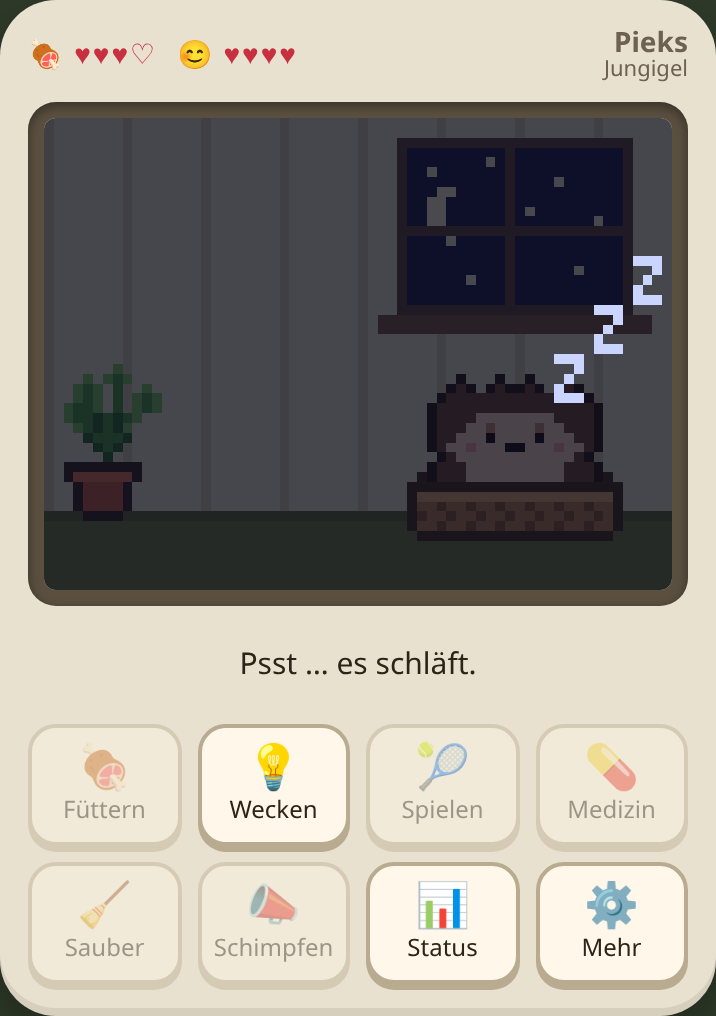
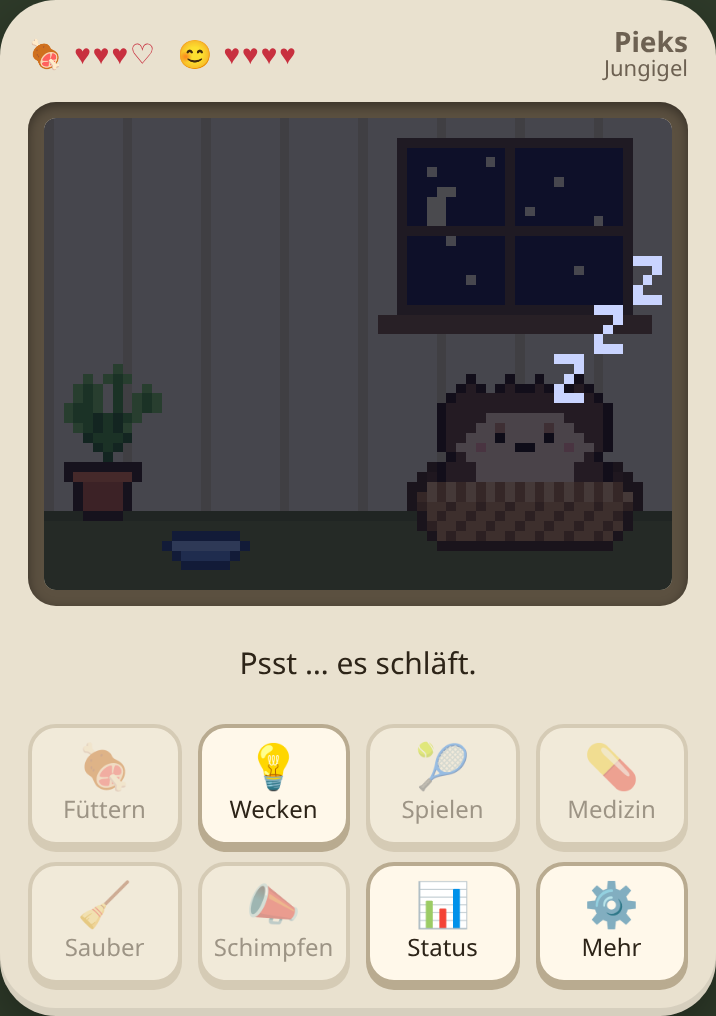
Futternapf mit Fress-Animation, Körbchen als geflochtener Weidenkorb
- Füttern: Futter erscheint im Napf, Tier läuft hin und frisst ihn leer
- Tier läuft jetzt mit eigener Position (kein Springen nach dem Fressen)
- Körbchen: geflochtener Rand, Weidenmuster, schmaler nach unten, Kissen

diff --git a/src/render/scene.ts b/src/render/scene.ts
@@ -8,24 +8,49 @@ export const SCREEN_W = 64;
 export const SCREEN_H = 48;
 const FLOOR_Y = 40;
 
-// Körbchen unter dem Fenster
+// Körbchen unter dem Fenster (geflochten, mit Kissen)
 const BASKET_X = 37;
 const BASKET_Y = FLOOR_Y - 6;
-const BASKET_CX = BASKET_X + 11;
-const BASKET_COLORS: ColorMap = { o: '#4a2f17', a: '#b5824a', c: '#8a5a2b', b: '#d9a86a', p: '#6c8fd1' };
+const BASKET_CX = BASKET_X + 12;
+const BASKET_COLORS: ColorMap = {
+  o: '#4a2f17', // Umriss
+  b: '#e0b57a', // Flechtrand hell
+  c: '#a8743e', // Flechtrand dunkel
+  a: '#c48f55', // Geflecht
+  x: '#8a5a2b', // Weidenstäbe
+  i: '#5a3a20', // Innenschatten
+  p: '#6c8fd1', // Kissen
+};
 const BASKET_BACK = [
-  '...oooooooooooooooo...',
-  '..obbbbbbbbbbbbbbbbo..',
-  '.oppppppppppppppppppo.',
+  '....oooooooooooooooo....',
+  '..oobbbbbbbbbbbbbbbboo..',
+  '.oiippppppppppppppppiio.',
 ];
 const BASKET_FRONT = [
-  'oooooooooooooooooooooo',
-  'obbbbbbbbbbbbbbbbbbbbo',
-  'oaacaacaacaacaacaacaao',
-  'ocaacaacaacaacaacaacao',
-  'oaacaacaacaacaacaacaao',
-  '.oooooooooooooooooooo.',
+  'oobcbcbcbcbcbcbcbcbcbcoo',
+  'ocbcbcbcbcbcbcbcbcbcbcbo',
+  'oxaaxaaxaaxaaxaaxaaxaaxo',
+  '.oaxaaxaaxaaxaaxaaxaaxo.',
+  '.oxaaxaaxaaxaaxaaxaaxao.',
+  '..oaxaaxaaxaaxaaxaaxao..',
+  '...oooooooooooooooooo...',
 ];
+
+// Futternapf neben der Pflanze
+const BOWL_X = 12;
+const BOWL_Y = FLOOR_Y + 2;
+const BOWL = ['.ooooooo.', 'ohhhhhhho', '.obbbbbo.', '..ooooo..'];
+const BOWL_COLORS: ColorMap = { o: '#2e4a7a', h: '#8fb3e6', b: '#5b86c9' };
+const FOOD_LEVELS = [
+  [], // leer
+  ['.......', '..fkf..'],
+  ['.......', '.fkfkf.'],
+  ['..fkf..', '.fkfkf.'],
+];
+const FOOD_COLORS: Record<'food' | 'candy', ColorMap> = {
+  food: { f: '#8a5a2b', k: '#b07a42' },
+  candy: { f: '#e46fb1', k: '#fff2f8' },
+};
 
 // Risse im Ei (relativ zum Ei), je Stufe kommen mehr dazu
 const CRACKS: [number, number][][] = [
@@ -70,7 +95,8 @@ const PLANT_POT = [
 type FxKind = 'food' | 'candy' | 'pill' | 'heart' | 'angry' | 'sparkle';
 
 const HATCH_MS = 1800;
-const EAT_MS = 1500;
+const EAT_MS = 2400; // Fressen am Napf
+const WALK_SPEED_TO_BOWL = 28; // Pixel pro Sekunde
 
 export class Scene {
   private ctx: CanvasRenderingContext2D;
@@ -80,7 +106,10 @@ export class Scene {
   private flashStart = -Infinity;
   private jumpStart = -Infinity;
   private shakeStart = -Infinity;
-  private lastX = 30;
+  private meal: { kind: 'food' | 'candy'; eatStart: number | null } | null = null;
+  private walkX = 30;
+  private walkDir = 1;
+  private lastFrame = performance.now();
 
   constructor(canvas: HTMLCanvasElement) {
     canvas.width = SCREEN_W;
@@ -90,8 +119,13 @@ export class Scene {
 
   effect(kind: FxKind) {
     const now = performance.now();
+    if (kind === 'food' || kind === 'candy') {
+      // Futter erscheint im Napf, das Tier läuft hin und frisst
+      this.meal = { kind, eatStart: null };
+      return;
+    }
     this.fx = { kind, start: now, until: now + 1500 };
-    if (kind === 'heart' || kind === 'candy' || kind === 'sparkle') this.jumpStart = now + (kind === 'candy' ? EAT_MS : 0);
+    if (kind === 'heart' || kind === 'sparkle') this.jumpStart = now;
     if (kind === 'angry') this.shakeStart = now;
   }
 
@@ -140,6 +174,9 @@ export class Scene {
       drawMap(ctx, BASKET_FRONT, BASKET_COLORS, BASKET_X, BASKET_Y + 3);
       this.drawPetWalking(p, sp, t);
     }
+
+    // Napf liegt vorne auf dem Boden, also nach dem Tier zeichnen
+    this.drawBowl(t);
 
     if (!p.lightOn) this.overlay(0.72);
 
@@ -236,7 +273,7 @@ export class Scene {
     const cleaning = t < this.cleaningUntil;
     p.poops.slice(0, 6).forEach((_, i) => {
       // zwischen Pflanze und Körbchen, 3 nebeneinander, dann eine zweite Reihe
-      const x = 13 + (i % 3) * 7 + (Math.floor(i / 3) % 2) * 3 + (cleaning ? (this.cleaningUntil - t) / 20 : 0);
+      const x = 23 + (i % 3) * 4 + (Math.floor(i / 3) % 2) * 2 + (cleaning ? (this.cleaningUntil - t) / 20 : 0);
       const y = FLOOR_Y + 1 - Math.floor(i / 3) * 2 + (i % 2);
       drawMap(ctx, ICONS.poop.map, ICONS.poop.colors, x, y);
       if (!cleaning) {
@@ -249,6 +286,17 @@ export class Scene {
         }
       }
     });
+  }
+
+  private drawBowl(t: number) {
+    const m = this.meal;
+    let level = 0;
+    if (m) {
+      const k = m.eatStart === null ? 0 : (t - m.eatStart) / EAT_MS;
+      level = 3 - Math.min(3, Math.floor(k * 3));
+    }
+    if (m && level > 0) drawMap(this.ctx, FOOD_LEVELS[level], FOOD_COLORS[m.kind], BOWL_X + 1, BOWL_Y - 2);
+    drawMap(this.ctx, BOWL, BOWL_COLORS, BOWL_X, BOWL_Y);
   }
 
   private drawEgg(s: GameState, p: Pet, sp: SpeciesDef, t: number) {
@@ -297,27 +345,46 @@ export class Scene {
 
   private drawPetWalking(p: Pet, sp: SpeciesDef, t: number) {
     const ctx = this.ctx;
+    const dt = Math.min(0.1, (t - this.lastFrame) / 1000);
+    this.lastFrame = t;
     const blink = t % 3500 < 150;
     const { map, colors: pal, w, h } = petSprite(sp, p, { eyesClosed: blink });
-    const fx = this.fx && t < this.fx.until ? this.fx : null;
-    const eating = fx && (fx.kind === 'food' || fx.kind === 'candy') && t - fx.start < EAT_MS;
 
     const from = 12;
     const to = Math.max(from + 8, 58 - w);
-    let x: number;
-    let flip = false;
-    if (eating) {
-      x = this.lastX; // beim Essen bleibt es stehen
+    let eating = false;
+    const m = this.meal;
+    if (m) {
+      // zum Napf laufen, dann fressen
+      const target = BOWL_X + BOWL[0].length / 2 - w / 2; // mittig über dem Napf
+      const diff = target - this.walkX;
+      if (m.eatStart === null) {
+        if (Math.abs(diff) <= 0.5) m.eatStart = t;
+        else {
+          this.walkDir = Math.sign(diff);
+          this.walkX += this.walkDir * Math.min(Math.abs(diff), WALK_SPEED_TO_BOWL * dt);
+        }
+      }
+      if (m.eatStart !== null) {
+        eating = true;
+        if (t - m.eatStart >= EAT_MS) {
+          if (m.kind === 'candy') this.jumpStart = t;
+          this.meal = null;
+          eating = false;
+        }
+      }
     } else {
-      const speed = p.sick ? 9000 : 4500;
-      const phase = (t % speed) / speed;
-      const pos = phase < 0.5 ? phase * 2 : 2 - phase * 2;
-      x = from + Math.round(pos * (to - from));
-      flip = phase >= 0.5;
-      this.lastX = x;
+      // gemütlich hin und her laufen
+      const speed = ((to - from) / (p.sick ? 4.5 : 2.25)) * dt;
+      this.walkX += this.walkDir * speed;
+      if (this.walkX >= to) (this.walkX = to), (this.walkDir = -1);
+      if (this.walkX <= from) (this.walkX = from), (this.walkDir = 1);
     }
+    let x = Math.round(this.walkX);
+    const flip = this.walkDir < 0;
 
     let bob = p.sick ? 0 : Math.floor(t / 400) % 2;
+    if (eating) bob = -(Math.floor(t / 250) % 2); // Kopf in den Napf
     const j = t - this.jumpStart;
     if (j >= 0 && j < 900) bob = Math.round(Math.abs(Math.sin((j / 900) * Math.PI * 2)) * 5);
     const s = t - this.shakeStart;
@@ -330,18 +397,11 @@ export class Scene {
       drawMap(ctx, ICONS.sparkle.map, ICONS.sparkle.colors, x + w - 2, y - 4);
     }
 
+    const fx = this.fx && t < this.fx.until ? this.fx : null;
     if (!fx) return;
     const icon = ICONS[fx.kind];
-    if (eating) {
-      // Futter vor dem Maul, wird in Bissen kleiner
-      const bites = Math.floor(((t - fx.start) / EAT_MS) * 3);
-      const cut = [5, 3, 1][bites] ?? 0;
-      const food = icon.map.map((row) => row.slice(0, cut));
-      drawMap(ctx, food, icon.colors, x + w, FLOOR_Y - 5);
-    } else {
-      const rise = Math.floor((t - fx.start) / 250);
-      drawMap(ctx, icon.map, icon.colors, x + w / 2 - 2, y - 7 - rise);
-    }
+    const rise = Math.floor((t - fx.start) / 250);
+    drawMap(ctx, icon.map, icon.colors, x + w / 2 - 2, y - 7 - rise);
   }
 
   private overlay(alpha: number) {

diff --git a/SPEC.md b/SPEC.md
@@ -167,7 +167,7 @@ Die Hauptansicht zeigt das Tier in seinem Zuhause, die Haufen und alle Statussym
 
 Gesperrte Aktionen, zum Beispiel Füttern während des Schlafs, sind ausgegraut.
 
-**Einrichtung:** Das **Körbchen** steht rechts unter dem Fenster. Das Ei liegt darin, und zum Schlafen legt sich das Tier hinein. Wach läuft es im Raum herum. Die Haufen landen zwischen Pflanze und Körbchen.
+**Einrichtung:** Das **Körbchen** steht rechts unter dem Fenster. Es ist ein geflochtener Weidenkorb mit geflochtenem Rand, nach unten schmaler werdend und mit Kissen. Das Ei liegt darin, und zum Schlafen legt sich das Tier hinein. Wach läuft es im Raum herum. Neben der Pflanze steht ein **Futternapf**. Die Haufen landen zwischen Napf und Körbchen.
 
 **Fenster:** An der Wand hängt ein großes Fenster, durch das man die echte Tageszeit sieht:
 - Die **Sonne** wandert zwischen 7 und 20 Uhr im Bogen durchs Fenster. Sie geht links unten auf, steht mittags oben und geht rechts unten unter.
@@ -179,7 +179,7 @@ Gesperrte Aktionen, zum Beispiel Füttern während des Schlafs, sind ausgegraut.
 **Animationen:**
 - **Ei:** Etwa 40 Sekunden vor dem Schlüpfen bekommt es die ersten Risse, die dann in drei Stufen mehr werden. Dabei wackelt es in immer kürzeren Abständen.
 - **Schlüpfen:** Die obere Schalenhälfte fliegt weg, das Baby taucht aus der unteren Hälfte auf, und es funkelt. Danach kommt der Dialog für den Namen.
-- **Essen:** Das Tier bleibt stehen, das Futter wird in drei Bissen kleiner. Bei einem Snack hüpft es danach.
+- **Essen:** Beim Füttern erscheint das Futter im Napf (Mahlzeit braun, Snack rosa). Das Tier läuft zum Napf, steckt den Kopf hinein und frisst. Dabei wird das Futter in drei Stufen weniger, bis der Napf leer ist. Bei einem Snack hüpft es danach.
 - **Freude:** Bei einem gewonnenen Spiel oder einem Snack hüpft es.
 - **Schimpfen:** Das Tier schüttelt sich.
 - **Entwicklung:** Der Bildschirm blitzt weiß auf, danach hüpft das Tier.
